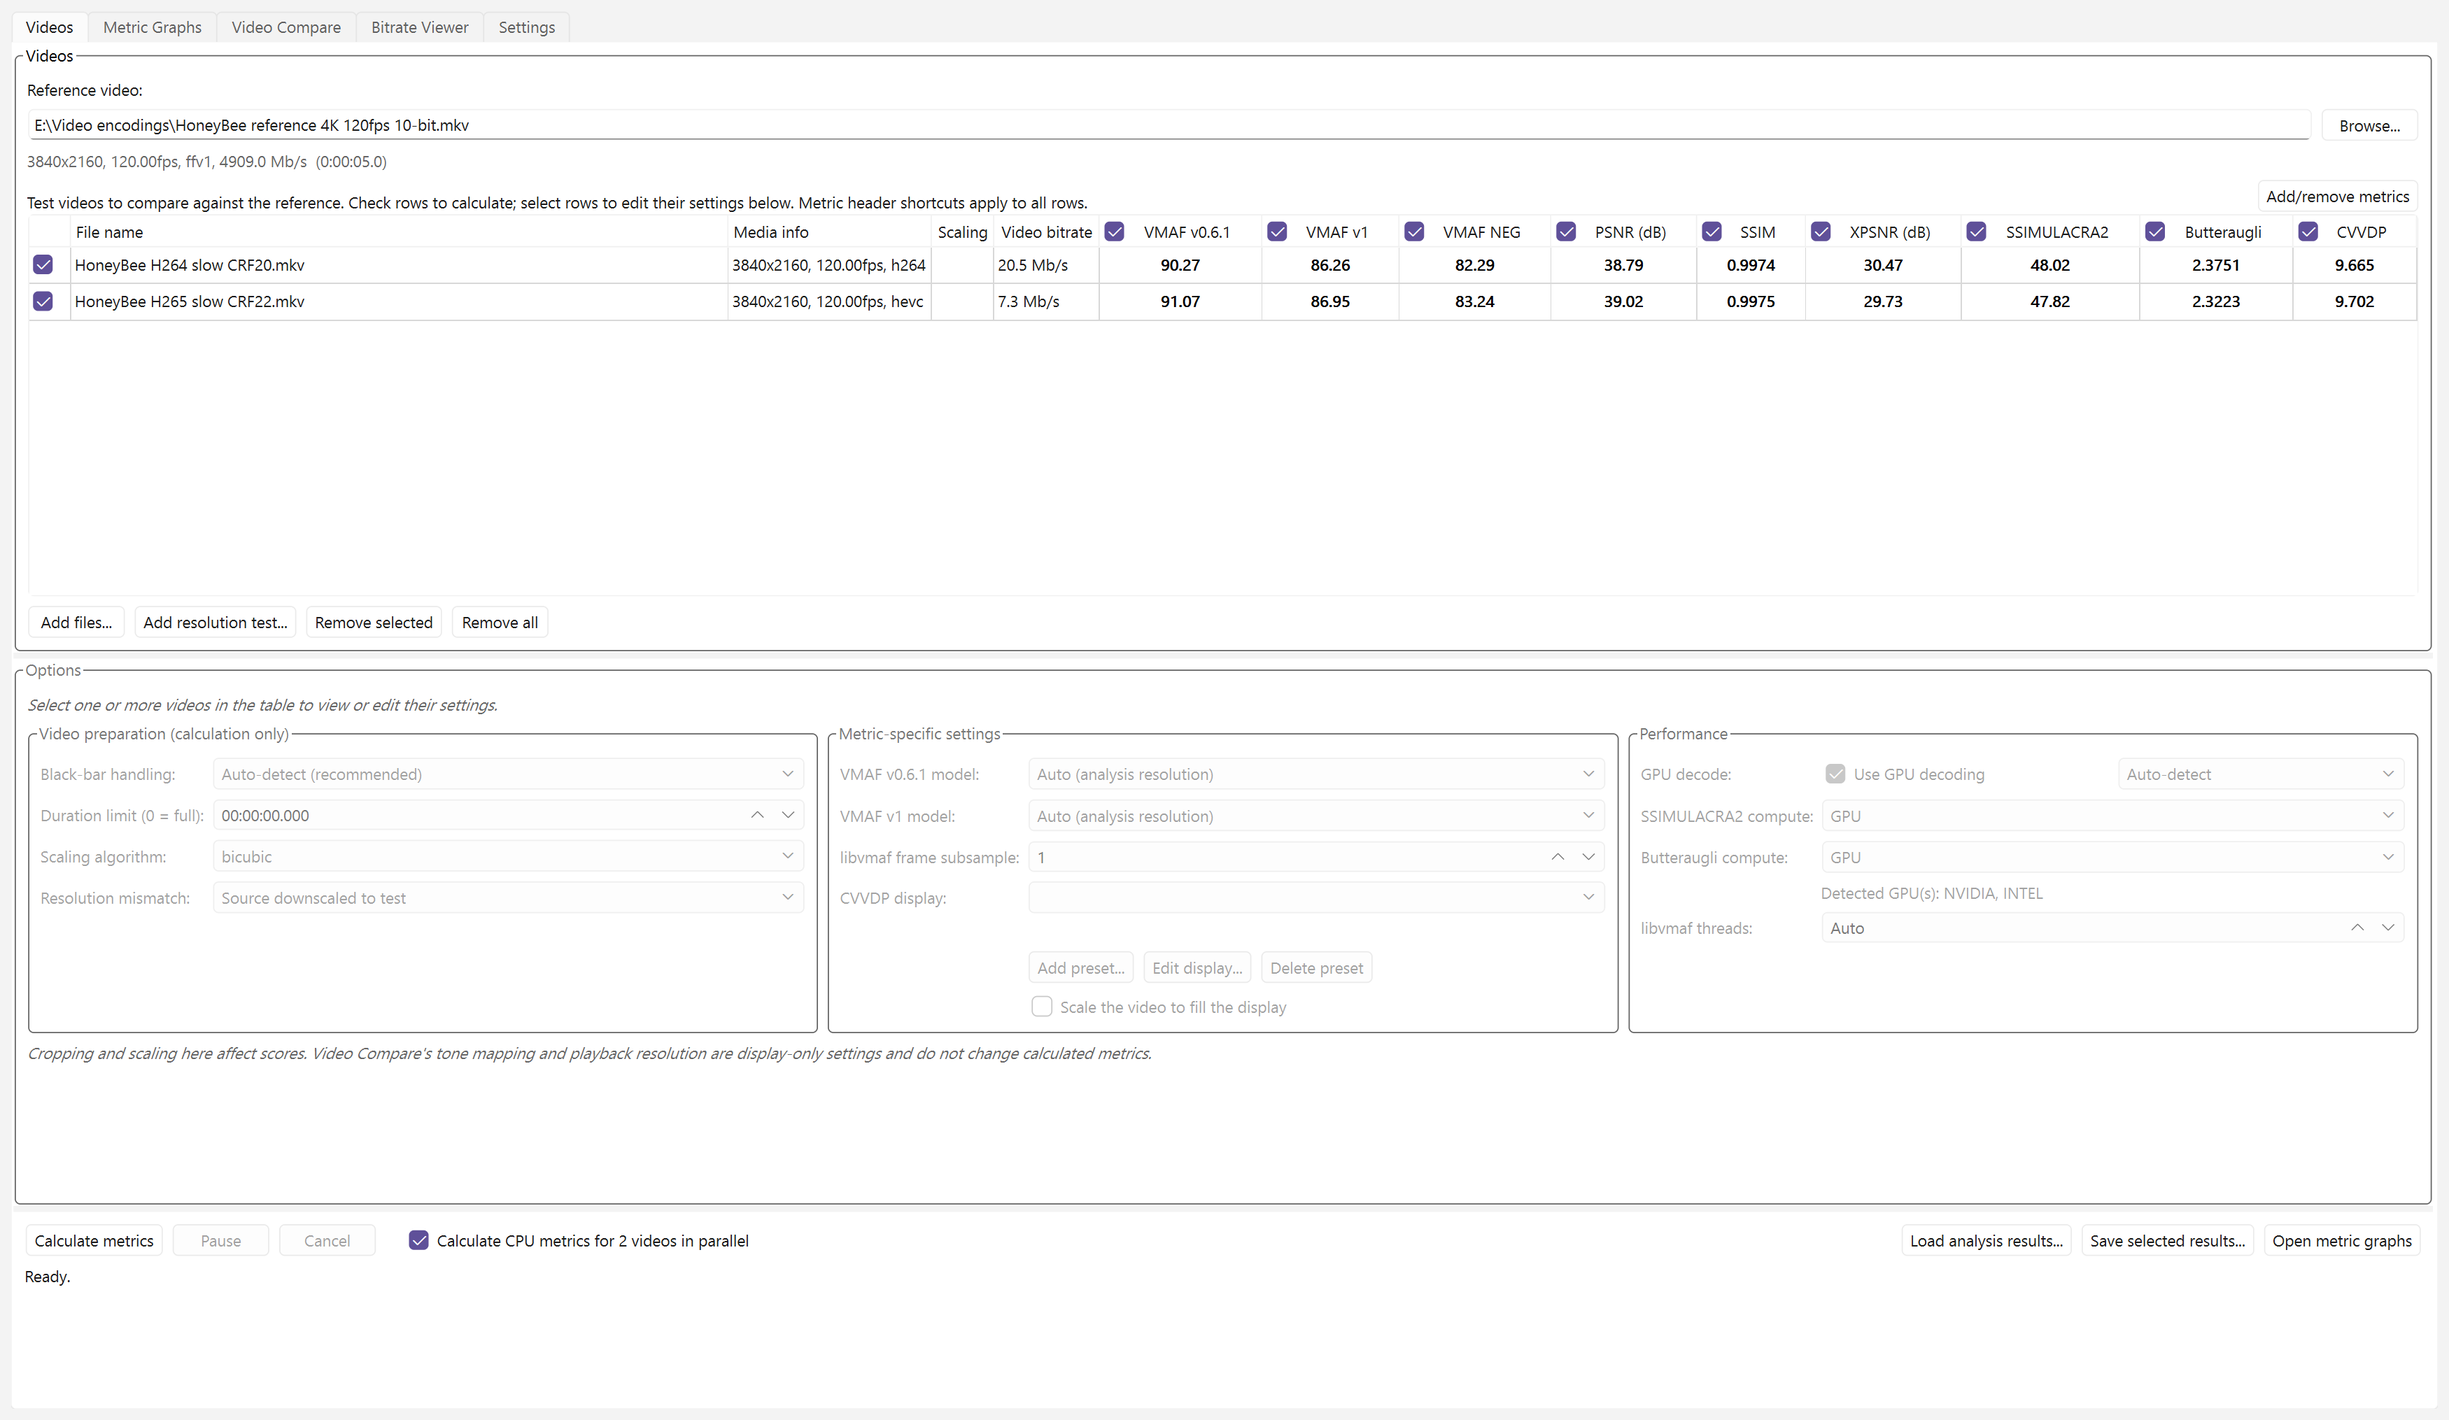
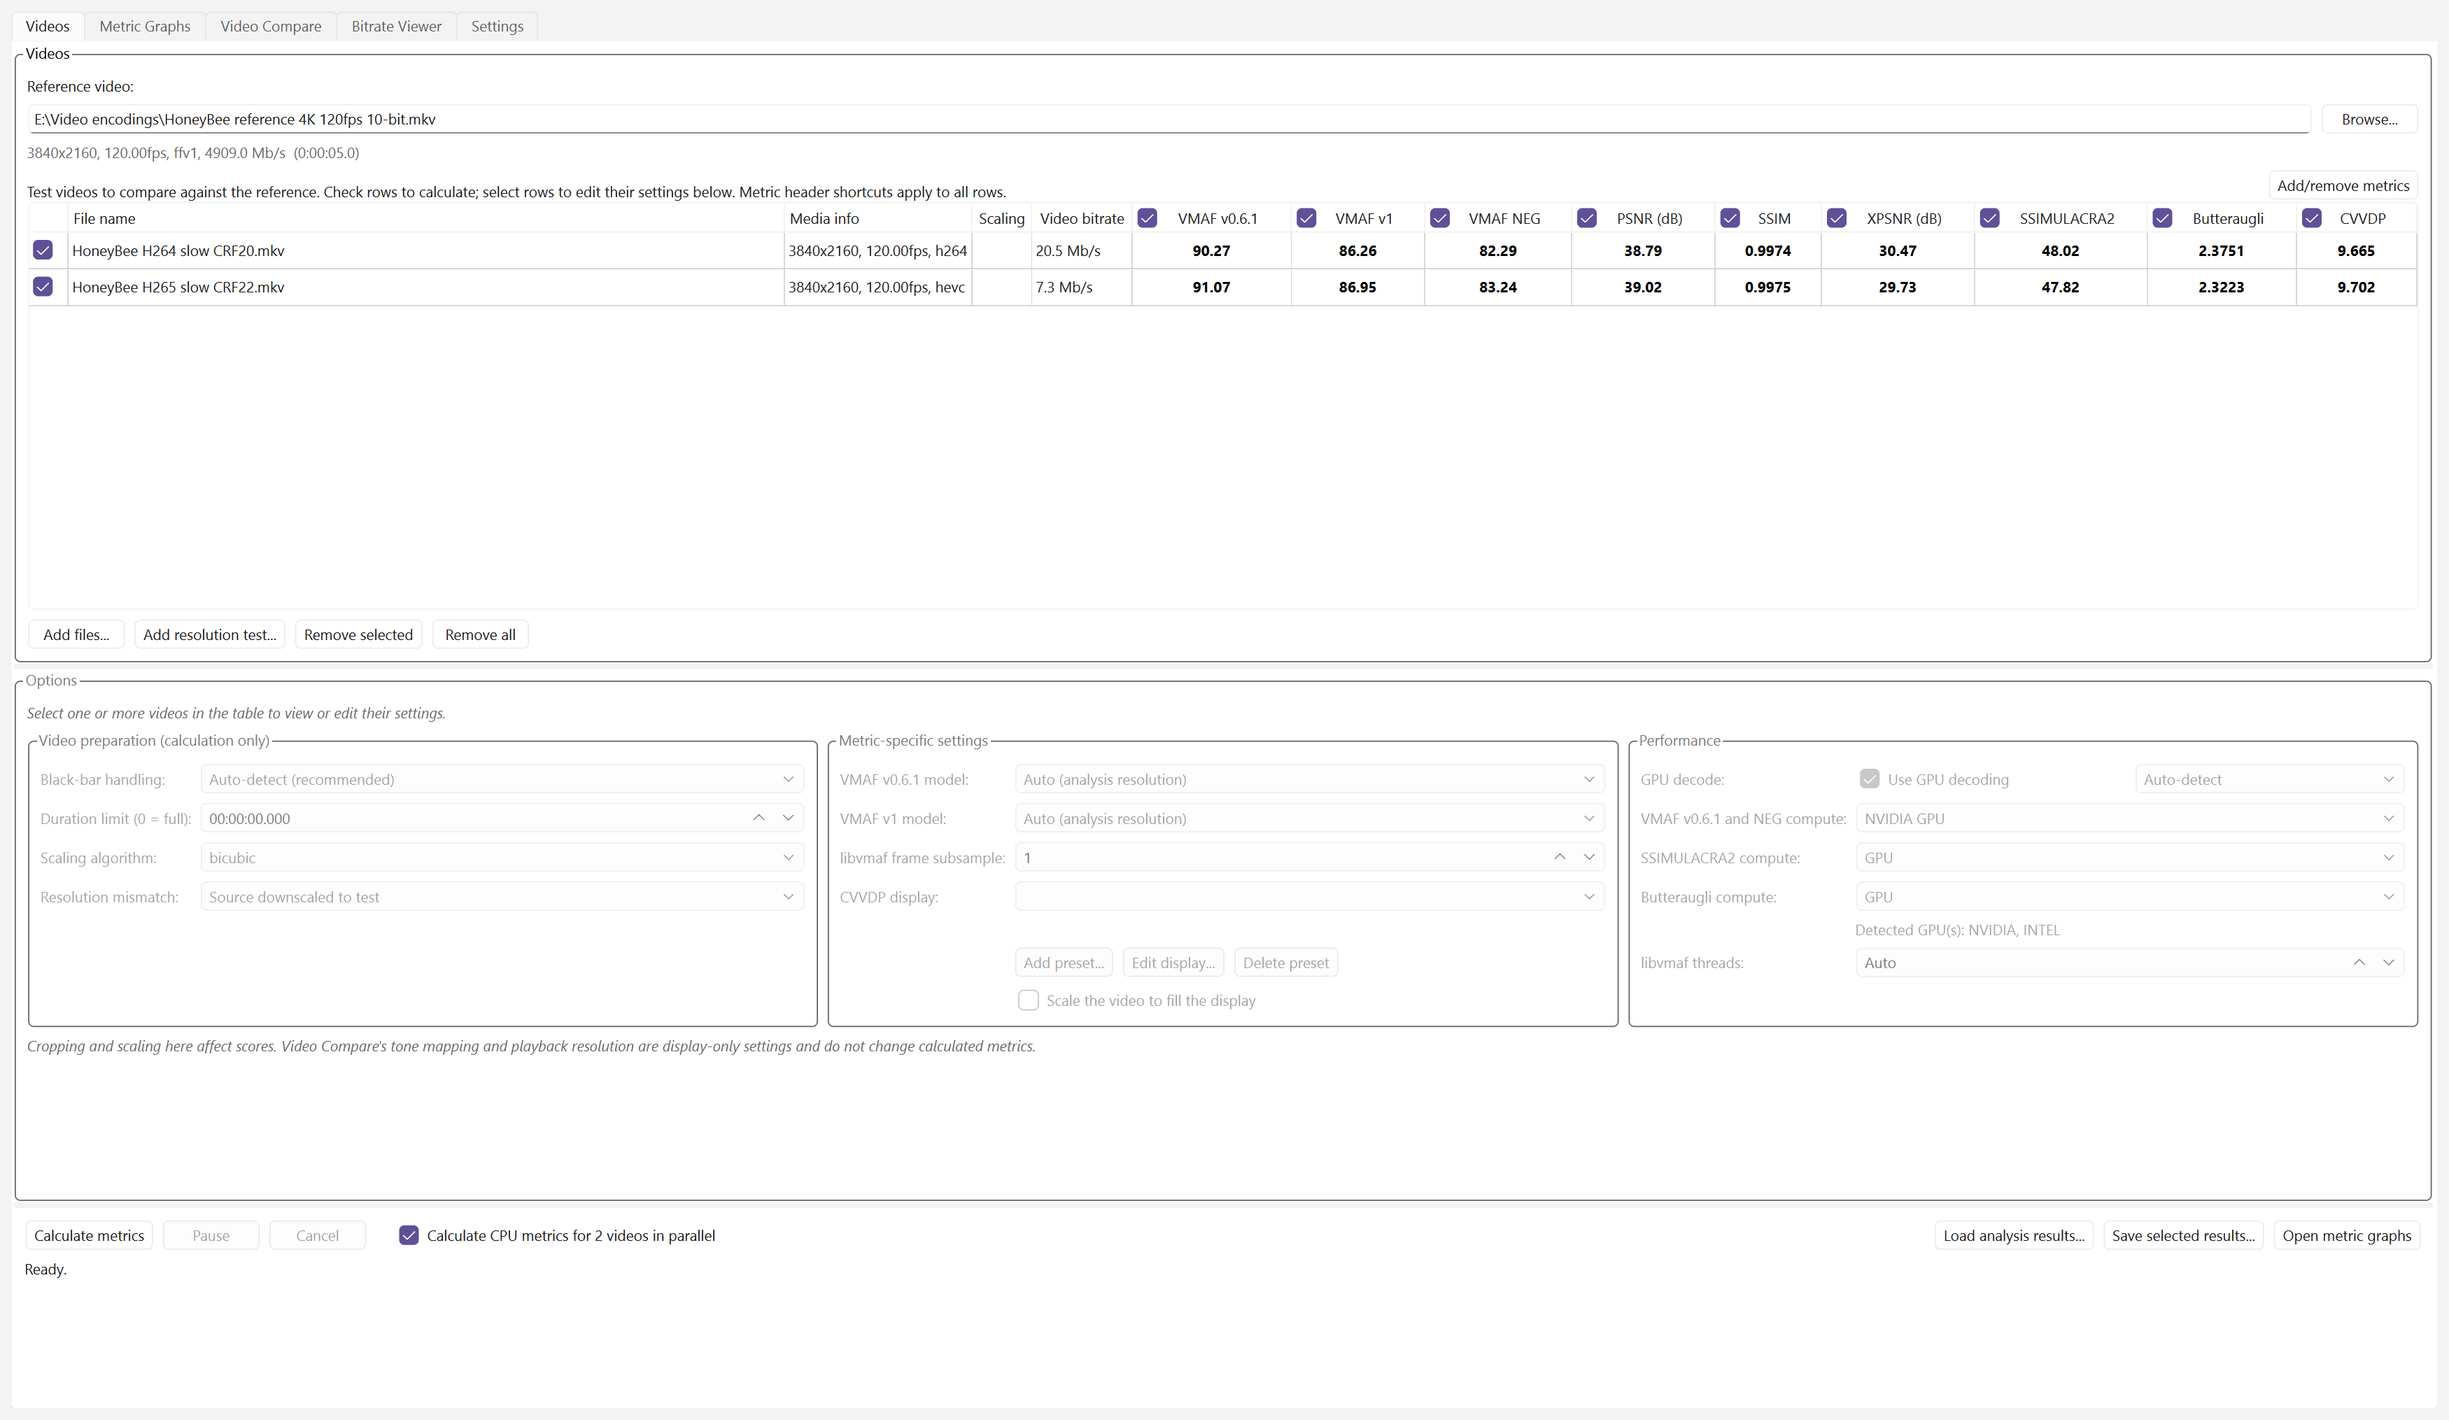
docs: v1.4 release notes and Videos screenshot
- CHANGELOG.md and the README's v1.4 section: the GPU metrics decoding
  in the scoring process on NVIDIA, Intel and AMD; frames paired by
  timestamp for SSIMULACRA2, Butteraugli and CVVDP; the CPU tools reading
  colours as the GPU does (saved CPU scores recalculated once); scaling
  algorithm no longer part of a comparison's identity; the fixes from the
  last reviews and the AMD test (odd sizes, NTSC rates, AMD's FFmpeg
  decode, bitrate column, cover art, soundtrack length, GStreamer start
  crash, XPSNR with subsampling, settings, window width).
- "How VMAF on the GPU works" says where the videos are decoded.
- Known issues: CPU and GPU SSIMULACRA2 still differ on HDR (PQ) video.
- README features: the in-process GPU decoding.
- docs/screenshots/01-videos.png retaken from this build: the HoneyBee
  reference with its H.264 and HEVC encodes, every metric, and the new
  "VMAF v0.6.1 and NEG compute" setting.

diff --git a/README.md b/README.md
@@ -7,6 +7,7 @@ A Windows desktop app for measuring and comparing video encode quality.
 - Calculate VMAF, VMAF NEG, PSNR, SSIM, XPSNR, SSIMULACRA2, Butteraugli, and ColorVideo VDP for multiple test videos.
 - Vship integration for GPU acceleration for ColorVideo VDP, SSIMULACRA2, and Butteraugli, on NVIDIA (CUDA), AMD (HIP) and any other GPU with a Vulkan driver
 - GPU acceleration for VMAF v0.6.1 and VMAF NEG on NVIDIA GPUs (GeForce GTX 16 and RTX 20 series or newer), with a bundled libvmaf built with CUDA
+- GPU metrics decode each video with the GPU's own decoder (NVIDIA, Intel and AMD) inside the scoring process, for the same scores at a fraction of the CPU use
 - libjxl integration for CPU fallback for SSIMULACRA2, and Butteraugli (no CPU support for ColorVideo VDP)
 - VMAF v0.6.1 and v1 models for standard, phone, 4K, and HFR viewing scenarios.
 - Compare metric curves, statistics, and per-frame scores (per second for ColorVideo VDP).
@@ -212,6 +213,14 @@ Third-party components retain their own licenses; see
   apart from VMAF v1, PSNR, SSIM and XPSNR, which stay on the CPU, so they do
   not slow it down. If the GPU fails, that video's VMAF is calculated on the
   CPU.
+- The GPU metrics now decode each video with the GPU's own decoder, inside the
+  process that scores it, on NVIDIA, Intel and AMD GPUs (H.264, HEVC and AV1,
+  8- and 10-bit 4:2:0). FFmpeg used to decode on the GPU, copy every picture
+  back to memory and pipe it across, which took most of a GPU metric's CPU
+  time. The scores are the same; CPU use is about 15 times lower on NVIDIA and
+  about 3 times lower on Intel. On NVIDIA the pictures for VMAF never leave
+  the GPU. Anything else (other codecs, 4:2:2, 4:4:4, 12-bit, interlaced or
+  damaged streams) is decoded through FFmpeg as before.
 - Updated Vship's Vulkan build (Intel GPUs, or Settings > GPU metrics > GPU
   backend set to Vulkan) to 5.1.2. SSIMULACRA2 is now calculated on the GPU
   with it: Vship 5.1.1's Vulkan build scored it up to 17 points too high on
@@ -249,6 +258,45 @@ Third-party components retain their own licenses; see
   with "the JSON object must be str, bytes or bytearray, not NoneType".
 - Cancelling a run now leaves the videos it never reached as they were, instead
   of marking them Cancelled.
+- SSIMULACRA2, Butteraugli and CVVDP now compare each test frame with the
+  source frame nearest in time, as VMAF, PSNR, SSIM and XPSNR have since v1.3.
+  They were paired by position, so a frame dropped from the test video put
+  every later pair one frame apart.
+- SSIMULACRA2 and Butteraugli on the CPU now read a video's colors as the GPU
+  does, and Butteraugli uses the same norm and display brightness. A tagged
+  BT.709 film scored 40.4 SSIMULACRA2 on the CPU against 55.1 on the GPU; the
+  two now agree closely on SDR video. Saved CPU scores are calculated again
+  once.
+- A comparison resized with any scaling algorithm is now treated as the same
+  comparison, so its saved scores are found again after the algorithm is
+  changed.
+- Fixed wrong SSIMULACRA2, Butteraugli and CVVDP scores for AV1 and VP9 videos
+  with an odd width or height when GPU decoding was on (NVIDIA): FFmpeg's
+  hardware decode returned a padded picture, with wrong chroma for odd
+  heights. Such videos are now decoded on the CPU.
+- A video at 24 fps is no longer accepted against one at 23.976 fps (or 30
+  against 29.97, 60 against 59.94). Their frames drift a frame apart every 42
+  seconds, which gave scores for frames that were not each other's.
+- Fixed FFmpeg's GPU decoding never being used on AMD GPUs: every run started
+  with a failed attempt and decoded on the CPU.
+- The Video bitrate column now shows the video stream's own bitrate. For MKV
+  files it showed the whole file's, soundtrack included; where only that is
+  known, it is marked with "≈".
+- Fixed MP4 files with cover art: the cover could be compared, scanned or
+  played instead of the video.
+- Fixed a video whose soundtrack runs longer than its picture failing with
+  "Durations do not match".
+- Fixed a crash at startup or when opening Video Compare that affected about
+  one start in five when the app was launched from another Python program.
+- Fixed XPSNR being calculated for every frame, and then dropped from the
+  table, when libvmaf frame subsampling was on and VMAF ran on the GPU.
+- Loading a saved run of a video already in the list now replaces its row
+  instead of adding a second one.
+- A settings file with a wrong value no longer stops a setting from working
+  later; that setting keeps its default. Settings are saved in one step, so a
+  crash cannot leave half a file.
+- The window fits its default width in every language with wider system
+  fonts.
 - Included various small bug fixes and reliability improvements.
 
 ### How VMAF on the GPU works
@@ -290,11 +338,18 @@ not fixed yet). Every frame's VMAF is within 0.00006 of the CPU's, and VMAF
 NEG within 0.0008, so a saved score is reused whichever calculated it.
 
 `scripts/build_libvmaf_cuda.ps1` builds it from exactly these commits, and two
-builds give the same file. FFmpeg still decodes the videos; libvmaf scores
-them on the GPU in a process of its own, so a crash in it or in the NVIDIA
-driver calculates that video's VMAF on the CPU instead of closing the app.
-VMAF v1 (which has no CUDA version), custom models, resolution tests and
-12-bit videos stay on the CPU.
+builds give the same file. libvmaf scores on the GPU in a process of its own,
+so a crash in it or in the NVIDIA driver calculates that video's VMAF on the
+CPU instead of closing the app.
+
+Where NVIDIA's decoder can decode both videos, that process decodes them too:
+the pictures are cropped, scaled and paired on the GPU and handed to libvmaf
+there, without ever being copied to system memory. Otherwise FFmpeg decodes
+and pairs the frames and pipes them to it. Either way the frames are paired
+by timestamp exactly as FFmpeg's own libvmaf filter pairs them.
+
+VMAF v1 (which has no CUDA version), custom models, resolution tests, 12-bit
+videos and comparisons at an odd width or height stay on the CPU.
 
 Thanks to the authors of these pull requests. We hope they are merged, so that
 everyone gets accurate VMAF on the GPU.
@@ -304,3 +359,6 @@ everyone gets accurate VMAF on the GPU.
 - On the integrated Intel GPU of a Core Ultra 9 285K, CVVDP fails on 4K videos
   ("A GPU Call failed inside Vship"). SSIMULACRA2 and Butteraugli are not
   affected.
+- On HDR (PQ) video, SSIMULACRA2 on the CPU and on the GPU still differ
+  widely (35 against 47 on one film): libjxl's tool handles HDR in its own
+  way. Butteraugli agrees (2.89 against 2.88). Use the GPU score for HDR.

diff --git a/CHANGELOG.md b/CHANGELOG.md
@@ -10,6 +10,14 @@
   apart from VMAF v1, PSNR, SSIM and XPSNR, which stay on the CPU, so they do
   not slow it down. If the GPU fails, that video's VMAF is calculated on the
   CPU.
+- The GPU metrics now decode each video with the GPU's own decoder, inside the
+  process that scores it, on NVIDIA, Intel and AMD GPUs (H.264, HEVC and AV1,
+  8- and 10-bit 4:2:0). FFmpeg used to decode on the GPU, copy every picture
+  back to memory and pipe it across, which took most of a GPU metric's CPU
+  time. The scores are the same; CPU use is about 15 times lower on NVIDIA and
+  about 3 times lower on Intel. On NVIDIA the pictures for VMAF never leave
+  the GPU. Anything else (other codecs, 4:2:2, 4:4:4, 12-bit, interlaced or
+  damaged streams) is decoded through FFmpeg as before.
 - Updated Vship's Vulkan build (Intel GPUs, or Settings > GPU metrics > GPU
   backend set to Vulkan) to 5.1.2. SSIMULACRA2 is now calculated on the GPU
   with it: Vship 5.1.1's Vulkan build scored it up to 17 points too high on
@@ -47,6 +55,45 @@
   with "the JSON object must be str, bytes or bytearray, not NoneType".
 - Cancelling a run now leaves the videos it never reached as they were, instead
   of marking them Cancelled.
+- SSIMULACRA2, Butteraugli and CVVDP now compare each test frame with the
+  source frame nearest in time, as VMAF, PSNR, SSIM and XPSNR have since v1.3.
+  They were paired by position, so a frame dropped from the test video put
+  every later pair one frame apart.
+- SSIMULACRA2 and Butteraugli on the CPU now read a video's colors as the GPU
+  does, and Butteraugli uses the same norm and display brightness. A tagged
+  BT.709 film scored 40.4 SSIMULACRA2 on the CPU against 55.1 on the GPU; the
+  two now agree closely on SDR video. Saved CPU scores are calculated again
+  once.
+- A comparison resized with any scaling algorithm is now treated as the same
+  comparison, so its saved scores are found again after the algorithm is
+  changed.
+- Fixed wrong SSIMULACRA2, Butteraugli and CVVDP scores for AV1 and VP9 videos
+  with an odd width or height when GPU decoding was on (NVIDIA): FFmpeg's
+  hardware decode returned a padded picture, with wrong chroma for odd
+  heights. Such videos are now decoded on the CPU.
+- A video at 24 fps is no longer accepted against one at 23.976 fps (or 30
+  against 29.97, 60 against 59.94). Their frames drift a frame apart every 42
+  seconds, which gave scores for frames that were not each other's.
+- Fixed FFmpeg's GPU decoding never being used on AMD GPUs: every run started
+  with a failed attempt and decoded on the CPU.
+- The Video bitrate column now shows the video stream's own bitrate. For MKV
+  files it showed the whole file's, soundtrack included; where only that is
+  known, it is marked with "≈".
+- Fixed MP4 files with cover art: the cover could be compared, scanned or
+  played instead of the video.
+- Fixed a video whose soundtrack runs longer than its picture failing with
+  "Durations do not match".
+- Fixed a crash at startup or when opening Video Compare that affected about
+  one start in five when the app was launched from another Python program.
+- Fixed XPSNR being calculated for every frame, and then dropped from the
+  table, when libvmaf frame subsampling was on and VMAF ran on the GPU.
+- Loading a saved run of a video already in the list now replaces its row
+  instead of adding a second one.
+- A settings file with a wrong value no longer stops a setting from working
+  later; that setting keeps its default. Settings are saved in one step, so a
+  crash cannot leave half a file.
+- The window fits its default width in every language with wider system
+  fonts.
 - Included various small bug fixes and reliability improvements.
 
 ### How VMAF on the GPU works
@@ -88,11 +135,18 @@ not fixed yet). Every frame's VMAF is within 0.00006 of the CPU's, and VMAF
 NEG within 0.0008, so a saved score is reused whichever calculated it.
 
 `scripts/build_libvmaf_cuda.ps1` builds it from exactly these commits, and two
-builds give the same file. FFmpeg still decodes the videos; libvmaf scores
-them on the GPU in a process of its own, so a crash in it or in the NVIDIA
-driver calculates that video's VMAF on the CPU instead of closing the app.
-VMAF v1 (which has no CUDA version), custom models, resolution tests and
-12-bit videos stay on the CPU.
+builds give the same file. libvmaf scores on the GPU in a process of its own,
+so a crash in it or in the NVIDIA driver calculates that video's VMAF on the
+CPU instead of closing the app.
+
+Where NVIDIA's decoder can decode both videos, that process decodes them too:
+the pictures are cropped, scaled and paired on the GPU and handed to libvmaf
+there, without ever being copied to system memory. Otherwise FFmpeg decodes
+and pairs the frames and pipes them to it. Either way the frames are paired
+by timestamp exactly as FFmpeg's own libvmaf filter pairs them.
+
+VMAF v1 (which has no CUDA version), custom models, resolution tests, 12-bit
+videos and comparisons at an odd width or height stay on the CPU.
 
 Thanks to the authors of these pull requests. We hope they are merged, so that
 everyone gets accurate VMAF on the GPU.
@@ -102,6 +156,9 @@ everyone gets accurate VMAF on the GPU.
 - On the integrated Intel GPU of a Core Ultra 9 285K, CVVDP fails on 4K videos
   ("A GPU Call failed inside Vship"). SSIMULACRA2 and Butteraugli are not
   affected.
+- On HDR (PQ) video, SSIMULACRA2 on the CPU and on the GPU still differ
+  widely (35 against 47 on one film): libjxl's tool handles HDR in its own
+  way. Butteraugli agrees (2.89 against 2.88). Use the GPU score for HDR.
 
 ## v1.3
 
